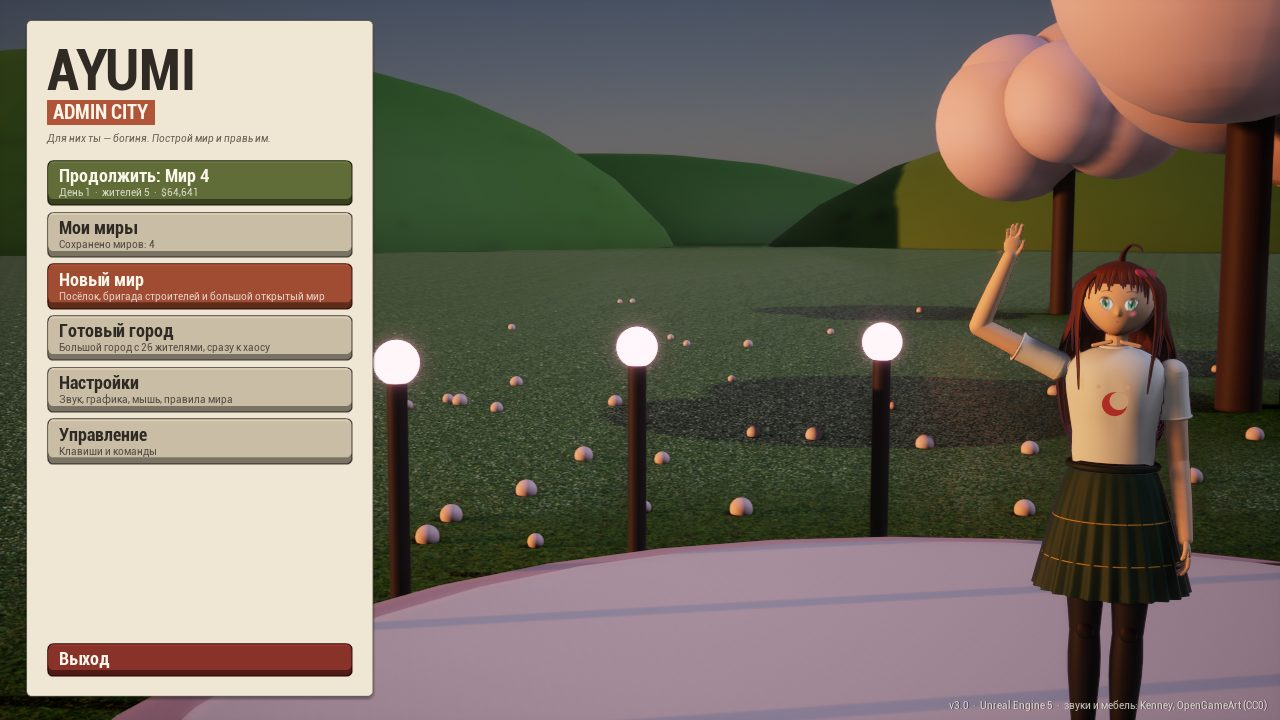
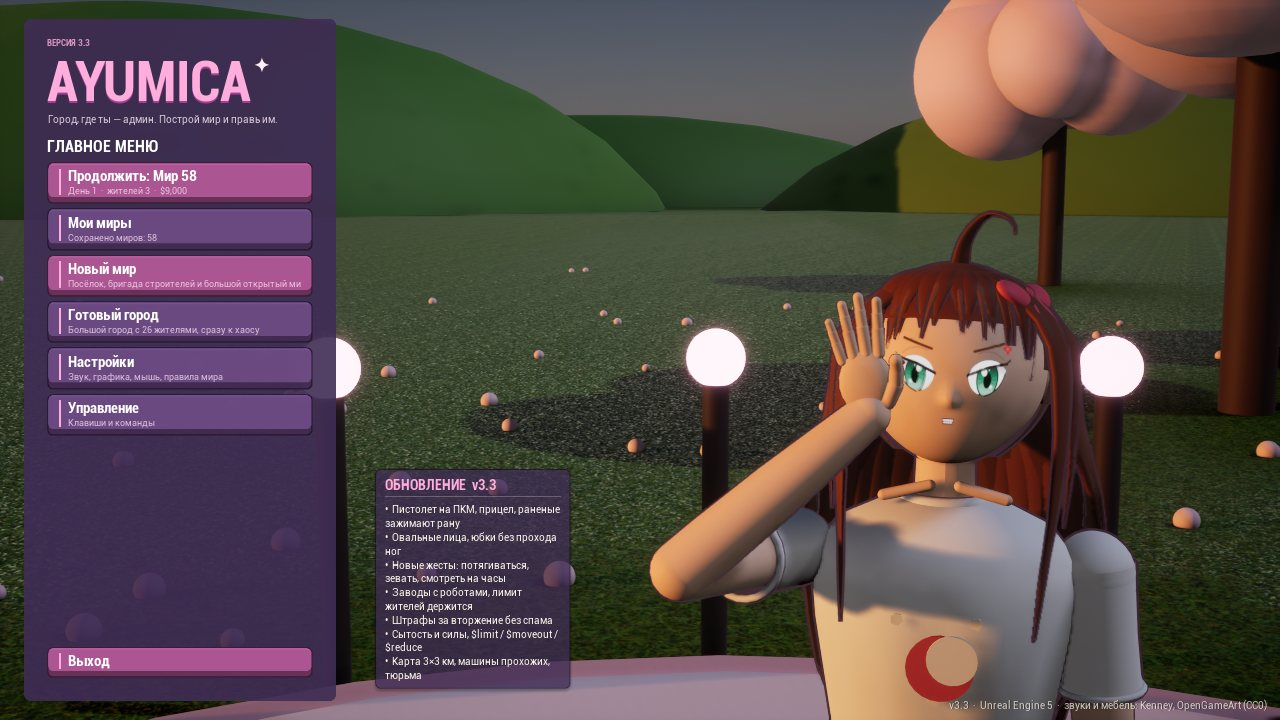
Ayumica name in launcher 1.3, site and README; new menu screenshot

diff --git a/index.html b/index.html
@@ -3,7 +3,7 @@
 <head>
 <meta charset="utf-8">
 <meta name="viewport" content="width=device-width, initial-scale=1">
-<title>Ayumi: Admin City</title>
+<title>Ayumica</title>
 <meta name="description" content="Бесплатный город-песочница для Windows: ты — Аюми, админ города. Жители, преступники, полиция, Ayumi OS.">
 <link rel="preconnect" href="https://fonts.googleapis.com">
 <link href="https://fonts.googleapis.com/css2?family=Nunito:wght@400;700;900&display=swap" rel="stylesheet">
@@ -70,14 +70,14 @@ footer { padding: 36px 0 50px; color: var(--dim); font-size: 14px; border-top: 1
 </head>
 <body>
 <header class="top"><div class="wrap">
-  <a class="logo" href="#"><b>AYUMI</b> Admin City</a>
+  <a class="logo" href="#"><b>AYUMICA</b></a>
   <nav><a href="#features" class="opt">Что есть</a><a href="#shots" class="opt">Скриншоты</a><a href="#install">Как скачать</a><a href="#controls" class="opt">Управление</a></nav>
 </div></header>
 
 <div class="hero"><div class="wrap">
   <div>
-    <h1>AYUMI</h1>
-    <div class="sub">ADMIN CITY</div>
+    <h1>AYUMICA</h1>
+    <div class="sub">ГОРОД, ГДЕ ТЫ — АДМИН</div>
     <p class="lead">Город-песочница, где ты — Аюми, админ и разработчик города. Строй дома и школы, следи за сотнями жителей, лови преступников и правь миром с ноутбука через Ayumi OS.</p>
     <div class="btns">
       <a class="btn" id="dl-launcher" href="https://github.com/qusderlol-glitch/ayumi-admin-city/releases/latest">Скачать лаунчер<small>24 КБ · сам скачает и обновит игру</small></a>
